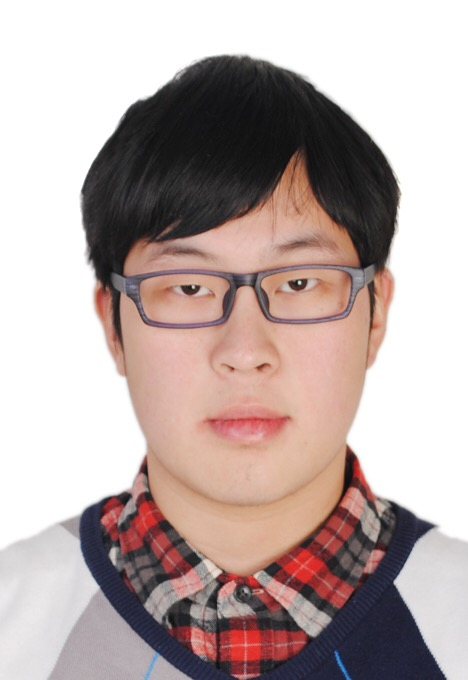
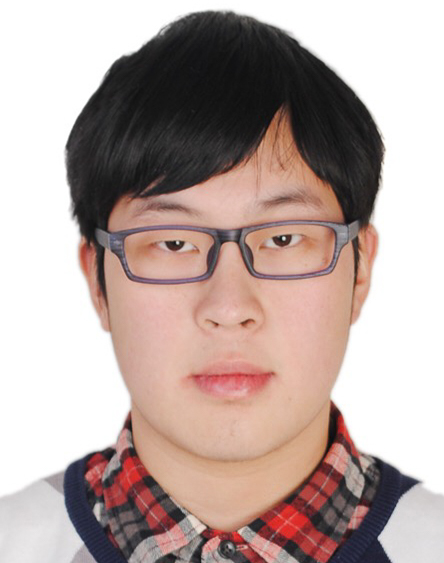
update

diff --git a/_pages/about.md b/_pages/about.md
@@ -2,12 +2,12 @@
 layout: about
 title: About
 permalink: /
-subtitle: <a href='https://www.unsw.edu.au/research/icinema'>iCinema Research Centre</a>. UNSW, Sydney, AU.
+subtitle: Postdoc Fellow @ <a href='https://www.unsw.edu.au/research/icinema'>iCinema Research Centre</a>. UNSW, Sydney, AU.
 
 profile:
-  align: right
-  image: IMG_0068.JPG
-  image_circular: true # crops the image to make it circular
+  align: left
+  image: IMG_0068.jpg
+  image_circular: false # crops the image to make it circular
   # more_info: >
   #   <p>555 your office number</p>
   #   <p>123 your address street</p>
@@ -29,9 +29,15 @@ social: true # includes social icons at the bottom of the page
 Renhao Huang is a Postdoctoral Research Fellow at UNSW's iCinema Research Centre.  His research has developed during his PhD study at School of Computer Science and Engineering, UNSW, focusing on computer vision in human behaviour modelling and human trajectory prediction. His current work focuses on applying machine learning techniques to wildfire simulation and other AI-powered wildfire reconstruction.
 
 Research Interests:
-* Human Trajectory Prediction
+<ul class="list-group list-group">
+  <li class="list-group-item border-0"><i class="fas fa-person-walking"></i> Human Trajectory Prediction</li>
+  <li class="list-group-item border-0"><i class="fas fa-eye"></i> Computer Vision</li>
+  <li class="list-group-item border-0"><i class="fa fa-fire"></i> Wildfire Research</li>
+</ul>
+
+<!-- * Human Trajectory Prediction
 * Semantic Segmentation
-* Wildfire Research
+* Wildfire Research -->
 
 
 <!-- Write your biography here. Tell the world about yourself. Link to your favorite [subreddit](http://reddit.com). You can put a picture in, too. The code is already in, just name your picture `prof_pic.jpg` and put it in the `img/` folder.
